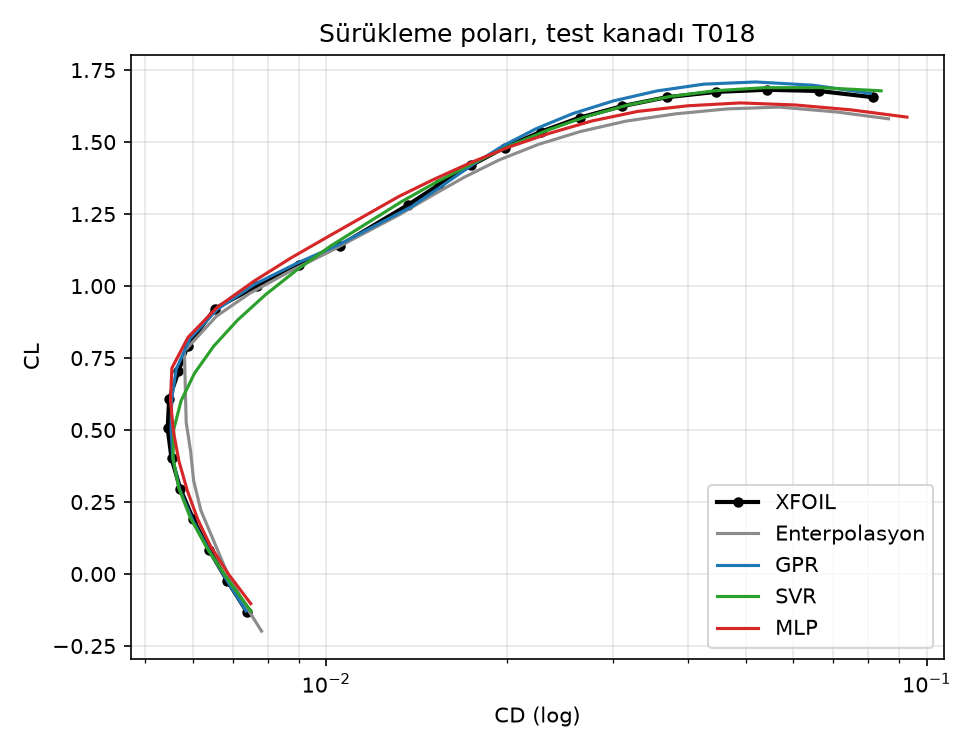
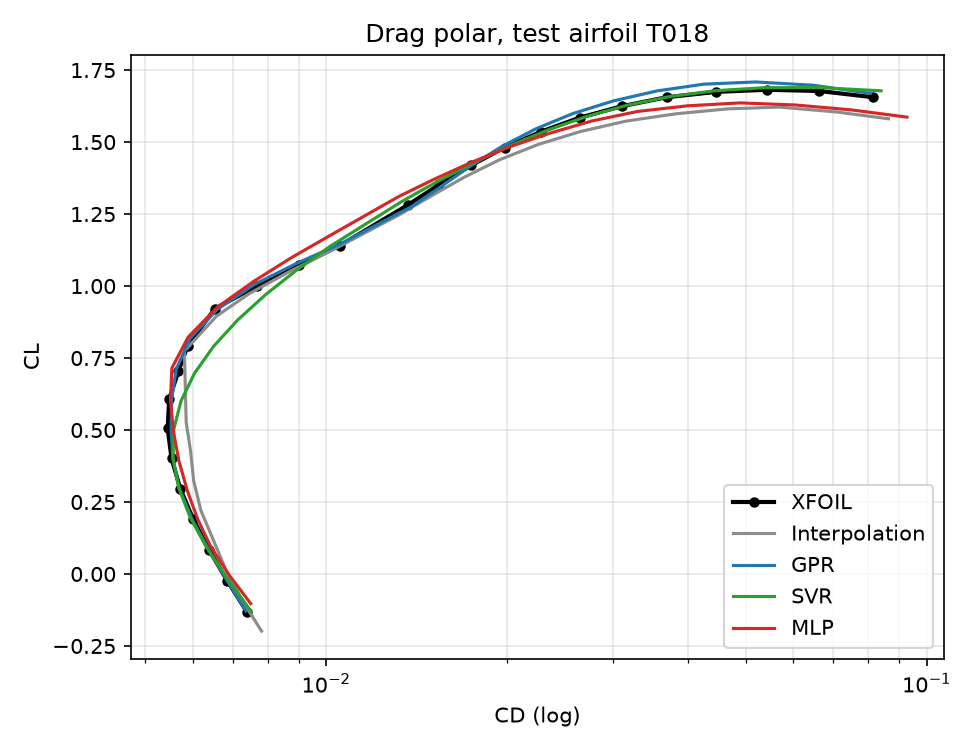
Switch plot labels to English

Changed region(s): [[0.7077, 0.644, 0.9231, 0.8587], [0.3077, 0.0307, 0.7692, 0.0613]]

diff --git a/src/grafikler.py b/src/grafikler.py
@@ -11,6 +11,8 @@ from hazirlik import SONUC, VERI
 
 YONTEMLER = ["Enterpolasyon", "GPR", "SVR", "MLP"]
 RENK = {"Enterpolasyon": "#8c8c8c", "GPR": "#1f77b4", "SVR": "#2ca02c", "MLP": "#d62728"}
+# Grafik etiketleri İngilizce, sütun adları kodla aynı kalıyor
+ETIKET = {"Enterpolasyon": "Interpolation", "GPR": "GPR", "SVR": "SVR", "MLP": "MLP"}
 
 
 def dagilim(df):
@@ -19,13 +21,13 @@ def dagilim(df):
     for ax, y in zip(eksenler, YONTEMLER):
         stall = df["alfa"] >= 12
         ax.scatter(df.loc[~stall, "CL"], df.loc[~stall, f"CL_{y}"], s=8, alpha=0.5,
-                   color=RENK[y], label="alfa < 12")
+                   color=RENK[y], label="alpha < 12")
         ax.scatter(df.loc[stall, "CL"], df.loc[stall, f"CL_{y}"], s=8, alpha=0.7,
-                   color="black", marker="x", label="alfa >= 12")
+                   color="black", marker="x", label="alpha >= 12")
         ax.plot(sinir, sinir, "k--", lw=0.8)
-        ax.set_title(y)
+        ax.set_title(ETIKET[y])
         ax.set_xlabel("XFOIL CL")
-    eksenler[0].set_ylabel("Tahmin CL")
+    eksenler[0].set_ylabel("Predicted CL")
     eksenler[0].legend(loc="upper left", fontsize=8)
     fig.tight_layout()
     fig.savefig(SONUC / "cl_tahmin_gercek.png", dpi=150)
@@ -40,9 +42,9 @@ def kanat_egrisi(df):
     fig, ax = plt.subplots(figsize=(7, 4.8))
     ax.plot(k["alfa"], k["CL"], "ko-", lw=2, ms=4, label="XFOIL")
     for y in YONTEMLER:
-        ax.plot(k["alfa"], k[f"CL_{y}"], "-", color=RENK[y], label=y)
+        ax.plot(k["alfa"], k[f"CL_{y}"], "-", color=RENK[y], label=ETIKET[y])
     ax.axvspan(12, k["alfa"].max(), color="0.9", zorder=0)
-    ax.set_xlabel("alfa [derece]")
+    ax.set_xlabel("alpha [deg]")
     ax.set_ylabel("CL")
     ax.set_title(f"{kimlik}: m={ilk.m:.3f}, p={ilk.p:.2f}, t={ilk.t:.3f}, Re={ilk.Re:.2e}")
     ax.legend()
@@ -60,9 +62,9 @@ def rmse_cubuk(tablo):
         ("CL_RMSE", "stall_CL_RMSE", "CL RMSE"),
         ("logCD_RMSE", "stall_logCD_RMSE", "log10(CD) RMSE"),
     ]):
-        ax.bar(x - 0.2, tablo[tum], 0.4, label="tüm test", color="#1f77b4")
-        ax.bar(x + 0.2, tablo[stall], 0.4, label="alfa >= 12", color="#ff7f0e")
-        ax.set_xticks(x, YONTEMLER)
+        ax.bar(x - 0.2, tablo[tum], 0.4, label="all test points", color="#1f77b4")
+        ax.bar(x + 0.2, tablo[stall], 0.4, label="alpha >= 12", color="#ff7f0e")
+        ax.set_xticks(x, [ETIKET[y] for y in YONTEMLER])
         ax.set_title(baslik)
         ax.grid(axis="y", alpha=0.3)
     eksenler[0].legend()
@@ -81,14 +83,14 @@ def tasarim_uzayi(egitim, test):
     ciftler = [("m", "p"), ("m", "t"), ("p", "t"), ("t", "Re")]
     fig, eksenler = plt.subplots(1, 4, figsize=(16, 3.8))
     for ax, (a, b) in zip(eksenler, ciftler):
-        ax.scatter(e[a], e[b], s=18, color="#1f77b4", label=f"eğitim ({len(e)})")
-        ax.scatter(t[a], t[b], s=30, color="#ff7f0e", marker="^", label=f"kör test ({len(t)})")
+        ax.scatter(e[a], e[b], s=18, color="#1f77b4", label=f"training ({len(e)})")
+        ax.scatter(t[a], t[b], s=30, color="#ff7f0e", marker="^", label=f"blind test ({len(t)})")
         ax.set_xlabel(a)
         ax.set_ylabel(b)
         if b == "Re":
             ax.set_yscale("log")
     eksenler[0].legend(fontsize=8)
-    fig.suptitle("Latin Hypercube tasarımı: kanat kombinasyonları")
+    fig.suptitle("Latin Hypercube design: airfoil combinations")
     fig.tight_layout()
     fig.savefig(SONUC / "tasarim_uzayi.png", dpi=150)
     plt.close(fig)
@@ -119,11 +121,11 @@ def aciya_gore_hata(df):
     for y in YONTEMLER:
         hata = (df[f"CL_{y}"] - df["CL"]) ** 2
         rmse = np.sqrt(hata.groupby(df["alfa"]).mean())
-        ax.plot(rmse.index, rmse.values, "o-", ms=3, color=RENK[y], label=y)
+        ax.plot(rmse.index, rmse.values, "o-", ms=3, color=RENK[y], label=ETIKET[y])
     ax.axvspan(12, df["alfa"].max(), color="0.9", zorder=0)
-    ax.set_xlabel("alfa [derece]")
+    ax.set_xlabel("alpha [deg]")
     ax.set_ylabel("CL RMSE")
-    ax.set_title("Kör testte açıya göre CL hatası")
+    ax.set_title("Blind test CL error by angle of attack")
     ax.legend()
     ax.grid(alpha=0.3)
     fig.tight_layout()
@@ -137,11 +139,11 @@ def surukleme_polari(df):
     fig, ax = plt.subplots(figsize=(6.5, 5))
     ax.plot(k["CD"], k["CL"], "ko-", lw=2, ms=4, label="XFOIL")
     for y in YONTEMLER:
-        ax.plot(k[f"CD_{y}"], k[f"CL_{y}"], "-", color=RENK[y], label=y)
+        ax.plot(k[f"CD_{y}"], k[f"CL_{y}"], "-", color=RENK[y], label=ETIKET[y])
     ax.set_xscale("log")
     ax.set_xlabel("CD (log)")
     ax.set_ylabel("CL")
-    ax.set_title(f"Sürükleme poları, test kanadı {kimlik}")
+    ax.set_title(f"Drag polar, test airfoil {kimlik}")
     ax.legend()
     ax.grid(alpha=0.3, which="both")
     fig.tight_layout()

diff --git a/README.tr.md b/README.tr.md
@@ -100,7 +100,7 @@ Uzunluk ölçeği bir duyarlılık ölçüsü ama tam olarak etki büyüklüğü
 
 ## Grafikler
 
-Tüm grafikler `src/grafikler.py` ile gerçek XFOIL verisinden ve kör test tahminlerinden üretiliyor.
+Tüm grafikler `src/grafikler.py` ile gerçek XFOIL verisinden ve kör test tahminlerinden üretiliyor. Grafik etiketleri İngilizce.
 
 `results/tasarim_uzayi.png`: eğitim ve kör test kanatlarının tasarım uzayındaki yeri. Test kanatları aynı aralıkta ama eğitim noktalarıyla çakışmıyor.
 

diff --git a/README.md b/README.md
@@ -102,7 +102,7 @@ A length scale is a sensitivity measure, not exactly an effect size. An input wi
 
 ## Plots
 
-All plots are produced by `src/grafikler.py` from the real XFOIL data and blind test predictions. Plot labels are in Turkish.
+All plots are produced by `src/grafikler.py` from the real XFOIL data and blind test predictions.
 
 `results/tasarim_uzayi.png`: where the training and blind test airfoils sit in the design space. Test airfoils are inside the same ranges but do not overlap the training points.
 
